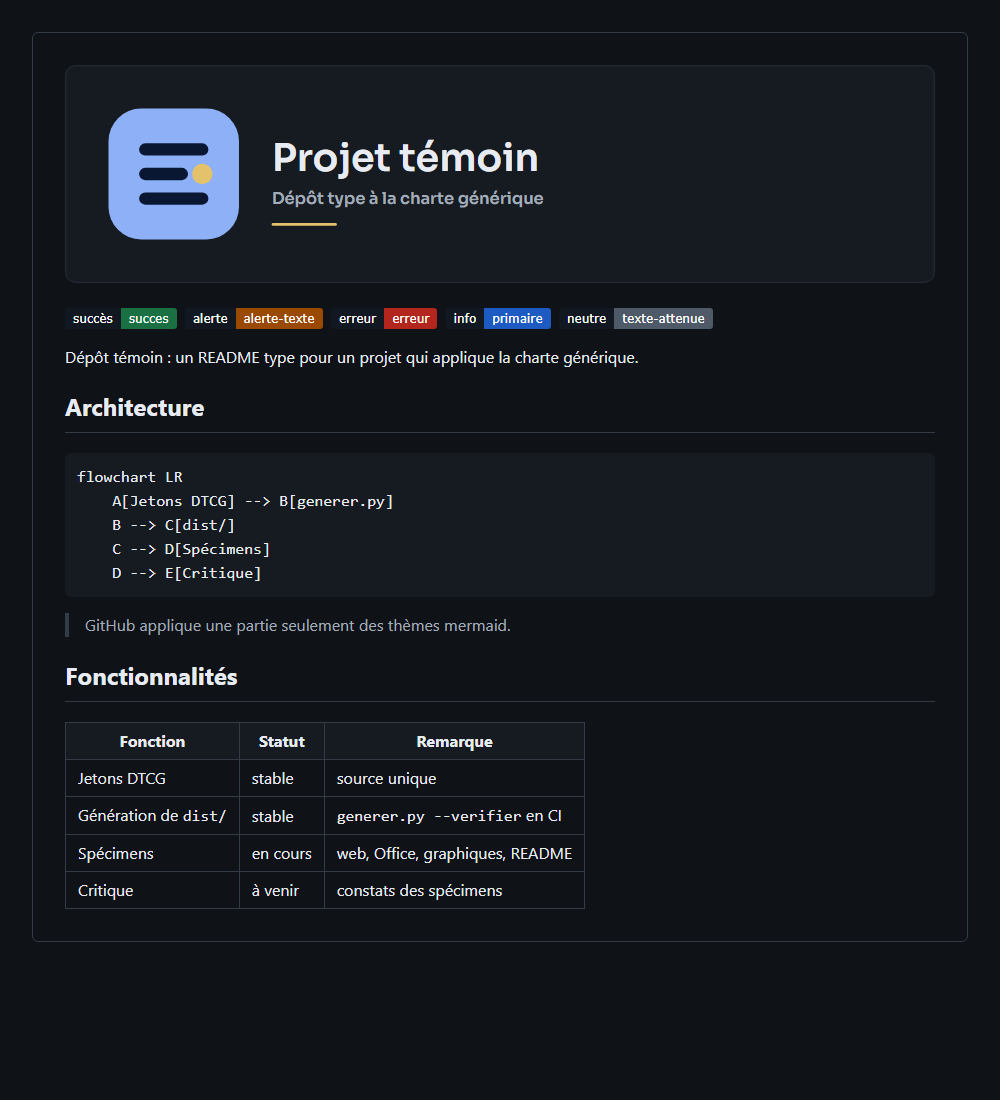
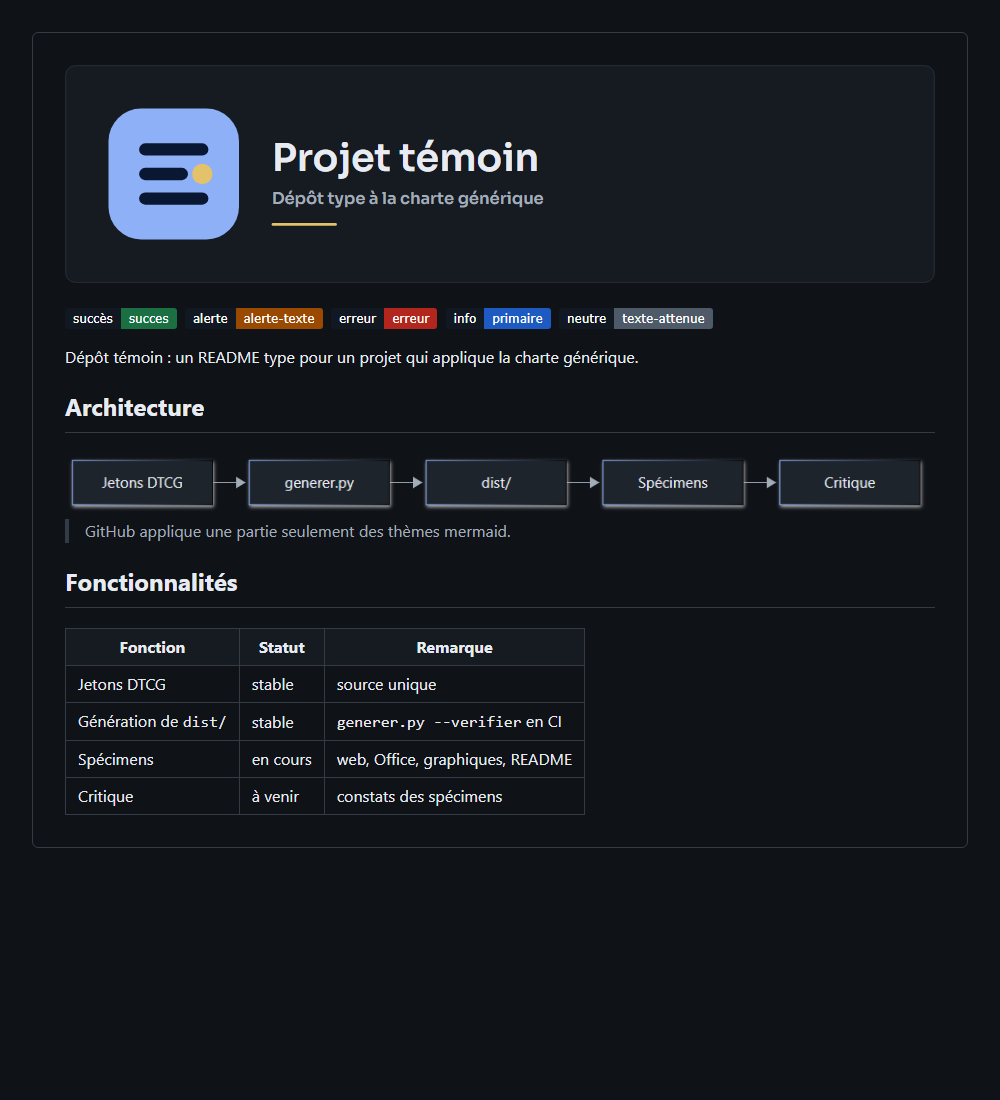
fix(1.5): rendu mermaid par Edge, URL de badge encodée, tests renforcés, licence OFL

Changed region(s): [[0.062, 0.4018, 0.93, 0.8345]]

diff --git a/specimens/readme/rendre.py b/specimens/readme/rendre.py
@@ -11,6 +11,7 @@ import subprocess
 import sys
 import tempfile
 from pathlib import Path
+from urllib.parse import quote
 
 RACINE = Path(__file__).resolve().parents[2]
 sys.path.insert(0, str(RACINE / "skills" / "charte" / "outils"))
@@ -21,7 +22,8 @@ ICI = Path(__file__).resolve().parent
 RENDUS = ICI / "rendus"
 EDGE = r"C:\Program Files (x86)\Microsoft\Edge\Application\msedge.exe"
 MERMAID = RACINE / "skills" / "charte" / "dist" / "mermaid-sombre.json"
-# shields.io : texte #fff, ou #333 sur fond clair (luminosité > 0,69)
+# Couleurs imposées par shields.io (badge-maker), hors charte : servent seulement à mesurer
+# le contraste du texte que shields.io choisira (#fff, ou #333 si luminosité > 0,69).
 BLANC, SOMBRE = "#FFFFFF", "#333333"
 
 
@@ -46,6 +48,8 @@ def badges() -> list[dict]:
             ratio = couleurs.contraste(t, col)
             if ratio >= 4.5:
                 break
+        else:
+            raise ValueError(f"badge {nom} : aucune variante lisible parmi {cles}")
         res.append({"nom": nom, "jeton": cle, "hex": col, "texte": t, "ratio": ratio,
                     "label": label, "ratio_label": couleurs.contraste(BLANC, label),
                     "essaye": cles[: cles.index(cle) + 1]})
@@ -53,7 +57,7 @@ def badges() -> list[dict]:
 
 
 def url_badge(b: dict) -> str:
-    return (f"https://img.shields.io/badge/{b['nom']}-{b['jeton'].replace('-', '--')}-{b['hex'][1:]}"
+    return (f"https://img.shields.io/badge/{quote(b['nom'])}-{b['jeton'].replace('-', '--')}-{b['hex'][1:]}"
             f"?labelColor={b['label'][1:]}")
 
 
@@ -87,7 +91,9 @@ DIAGRAMME = """flowchart LR
     D --> E[Critique]"""
 
 
-def readme(bs: list[dict]) -> str:
+def readme(bs: list[dict], mermaid_png: bool) -> str:
+    rendu = ("[`rendus/mermaid.png`](rendus/mermaid.png) montre l'intention." if mermaid_png
+             else "Rendu `mermaid.png` indisponible (voir `LISEZMOI.md`).")
     badges_md = " ".join(f"![{b['nom']}]({url_badge(b)})" for b in bs)
     return f"""<picture>
   <source media="(prefers-color-scheme: dark)" srcset="banniere-sombre.svg">
@@ -107,7 +113,7 @@ Dépôt témoin : un README type pour un projet qui applique la charte génériq
 ```
 
 > Note : GitHub applique une partie seulement des thèmes mermaid (`themeVariables`) et ignore
-> `%%{{init}}%%` dans certains contextes de rendu. `rendus/mermaid.png` montre l'intention.
+> `%%{{init}}%%` dans certains contextes de rendu. {rendu}
 
 ## Fonctionnalités
 
@@ -174,29 +180,33 @@ def capture(src: Path, dest: Path, w: int, h: int) -> None:
 def mmdc() -> bool:
     cfg = RENDUS / "_mermaid-config.json"
     mmd = RENDUS / "_diagramme.mmd"
+    pup = RENDUS / "_puppeteer.json"
     data = json.loads(MERMAID.read_text("utf-8"))
     cfg.write_text(json.dumps(data), encoding="utf-8")
+    # Edge du poste plutôt que le chrome-headless-shell que puppeteer ne télécharge pas
+    pup.write_text(json.dumps({"executablePath": EDGE, "headless": "shell"}), encoding="utf-8")
     mmd.write_text(DIAGRAMME + "\n", encoding="utf-8")
     try:
         subprocess.run(["npx.cmd", "-y", "@mermaid-js/mermaid-cli", "-i", str(mmd), "-o",
-                        str(RENDUS / "mermaid.png"), "-c", str(cfg),
-                        "-b", data["themeVariables"]["background"], "-w", "900"],
+                        str(RENDUS / "mermaid.png"), "-c", str(cfg), "-p", str(pup),
+                        "-b", data["themeVariables"]["background"], "--size", "900"],
                        check=True, timeout=120, capture_output=True)
         return True
     except (subprocess.SubprocessError, OSError) as e:
-        print("mmdc indisponible :", type(e).__name__)
+        print("mmdc indisponible :", type(e).__name__, getattr(e, "stderr", b"")[-600:])
         return False
     finally:
         cfg.unlink(missing_ok=True)
         mmd.unlink(missing_ok=True)
+        pup.unlink(missing_ok=True)
 
 
 def main() -> None:
     RENDUS.mkdir(exist_ok=True)
     bs = badges()
     ecrire_badges(bs)
-    (ICI / "README-temoin.md").write_text(readme(bs), encoding="utf-8")
     ok = mmdc()
+    (ICI / "README-temoin.md").write_text(readme(bs, ok), encoding="utf-8")
     for theme in ("sombre", "clair"):
         page = ICI / f"_rendu-{theme}.html"
         page.write_text(html_page(theme, bs, ok), encoding="utf-8")

diff --git a/tests/test_specimen_readme.py b/tests/test_specimen_readme.py
@@ -73,3 +73,30 @@ def test_readme_temoin_structure():
     assert "```mermaid" in texte
     assert "| Fonction |" in texte
     assert "## Captures" in texte
+
+
+def test_readme_temoin_init_mermaid_et_picture():
+    import json
+
+    texte = (DOSSIER / "README-temoin.md").read_text(encoding="utf-8")
+    assert 'media="(prefers-color-scheme: light)" srcset="banniere-clair.svg"' in texte
+    assert 'media="(prefers-color-scheme: dark)" srcset="banniere-sombre.svg"' in texte
+    init = re.search(r"%%\{init: (.*)\}%%", texte).group(1)
+    attendu = RACINE / "skills" / "charte" / "dist" / "mermaid-sombre.json"
+    assert json.loads(init) == json.loads(attendu.read_text(encoding="utf-8"))
+    for lien in re.findall(r"\]\((rendus/[^)]+)\)", texte):
+        assert (DOSSIER / lien).is_file(), lien
+
+
+def test_badges_lisibles_et_url_ascii():
+    import couleurs
+
+    texte = (DOSSIER / "badges.md").read_text(encoding="utf-8")
+    urls = re.findall(r"https://img\.shields\.io/badge/[^)]+", texte)
+    assert urls and all(u.isascii() for u in urls)
+    for fond, etiquette in re.findall(r"-([0-9A-F]{6})\?labelColor=([0-9A-F]{6})", texte):
+        # texte choisi par shields.io (badge-maker) : #333 si luminosité > 0,69, sinon blanc
+        r, g, b = (int(fond[i:i + 2], 16) for i in (0, 2, 4))
+        texte_badge = "#333333" if (r * 299 + g * 587 + b * 114) / 255000 > 0.69 else "#FFFFFF"
+        assert couleurs.contraste(texte_badge, "#" + fond) >= 4.5, fond
+        assert couleurs.contraste("#FFFFFF", "#" + etiquette) >= 4.5, etiquette

diff --git a/specimens/readme/LISEZMOI.md b/specimens/readme/LISEZMOI.md
@@ -7,21 +7,37 @@ uv run --no-project python -I specimens/readme/generer_bannieres.py
 uv run --no-project python -I specimens/readme/rendre.py
 ```
 
-Le premier écrit les SVG (valeurs lues par `jetons.charger()`, Sora en base64). Le second écrit `badges.md`, `README-temoin.md`, puis les PNG par Edge headless (Windows) ; il tente `npx -y @mermaid-js/mermaid-cli` pour `rendus/mermaid.png`.
+Le premier écrit les SVG (valeurs lues par `jetons.charger()`, Sora en base64). Le second écrit `badges.md`, `README-temoin.md`, puis les PNG par Edge headless (Windows) ; il lance `npx -y @mermaid-js/mermaid-cli` pour `rendus/mermaid.png`, avec Edge comme navigateur de puppeteer (option `-p`), car le `chrome-headless-shell` de puppeteer n'est pas téléchargé.
 
 ## Fichiers
 
 - `banniere-sombre.svg`, `banniere-clair.svg` (1280×320, environ 21 Ko chacune) ;
 - `apercu-social.svg` (source) et `apercu-social.png` (1280×640, sombre, marge de 120 px autour du bloc) ;
 - `badges.md`, `README-temoin.md` ;
-- `rendus/` : `banniere-*.png`, `readme-sombre.png`, `readme-clair.png`.
+- `rendus/` : `banniere-*.png`, `mermaid.png`, `readme-sombre.png`, `readme-clair.png`.
+
+Licence : les SVG embarquent Sora 600 (sous-ensemble latin, base64), sous SIL Open Font License 1.1 ; texte de la licence dans `skills/charte/polices/OFL-sora.txt` (voir `skills/charte/polices/LISEZMOI.md`). Un dépôt qui reprend ces bannières doit joindre ce fichier de licence.
 
 ## Constats pour la critique
 
-- Mermaid : `rendus/mermaid.png` absent. `npx -y @mermaid-js/mermaid-cli` a échoué (erreur de sortie non nulle après ~60 s, probablement le téléchargement de Chromium par puppeteer). Le rendu README montre donc le code du diagramme. GitHub ignore en partie `%%{init}%%` et les `themeVariables` : le thème sombre n'est pas garanti.
+- Mermaid : `rendus/mermaid.png` rendu avec `dist/mermaid-sombre.json` ; il garde son fond sombre dans le rendu clair du README (bandeau sombre sur page claire). GitHub ignore en partie `%%{init}%%` et les `themeVariables` : le thème sombre n'est pas garanti.
 - Badges : shields.io impose texte blanc ou `#333333`. Jetons clairs retenus. `alerte` (#E8892A) échoue avec le blanc et le gris sombre ; remplacé par `alerte-texte` (#9A4A00). `neutre` échoue ; remplacé par `texte-attenue` (#4F5A68). Les badges ont un fond sombre fixe d'étiquette, quel que soit le thème de la page.
 - Badges : le rendu local imite shields.io en HTML (Verdana) ; les vrais badges demandent le réseau.
 - La bannière sombre sur GitHub clair (ou inversement) est évitée par `<picture>`, mais l'`<img>` de repli est la sombre.
 - Le sous-titre est composé en Sora 600 (seule police embarquée), un peu lourd pour un texte secondaire ; Atkinson alourdirait la bannière de ~15 Ko.
 - Aperçu social : bloc centré à gauche avec beaucoup de vide à droite ; peu d'information.
 - Le rendu du README est un HTML de style GitHub simplifié, non le rendu réel de GitHub ; la section Captures n'y figure pas (elle référence ces captures).
+
+## Revue
+
+### Passe 1 (2026-11-05, SHA revu e0e6ae7)
+
+- Important, medium, reviewer : `mermaid.png` absent ; cause réelle, puppeteer sans `chrome-headless-shell` et `-w` refusé par `npx`. Corrigé : Edge par `-p`, option `--size`.
+- Nit, low, second avis 2 : lien mort vers `rendus/mermaid.png`. Corrigé : PNG produit, note conditionnelle, test des liens `rendus/`.
+- Nit, low, second avis 4 : tests de structure faibles. Corrigé : JSON `%%{init}%%` comparé à `dist/mermaid-sombre.json`, deux `<source>`, contraste des badges.
+- Nit, low, second avis 6 : `succès` non ASCII dans l'URL. Corrigé : `urllib.parse.quote`.
+- Nit, low, second avis 3 : licence OFL de Sora embarquée. Corrigé : mention dans « Fichiers ».
+- Nit, low, reviewer : badge sans variante lisible gardé en silence. Corrigé : `ValueError`.
+- Nit, low, second avis 1 : `#333333` dans `rendre.py`. Rejeté : couleur imposée par shields.io, sert au calcul de contraste, jamais rendue (commentaire précisé).
+- Nit, low, second avis 5 : aperçu social non centré. Reporté à la critique (1.6), déjà dans les constats.
+- Complexité : 0 constat.

diff --git a/specimens/readme/README-temoin.md b/specimens/readme/README-temoin.md
@@ -4,7 +4,7 @@
   <img alt="Projet témoin" src="banniere-sombre.svg">
 </picture>
 
-![succès](https://img.shields.io/badge/succès-succes-1B7043?labelColor=121821) ![alerte](https://img.shields.io/badge/alerte-alerte--texte-9A4A00?labelColor=121821) ![erreur](https://img.shields.io/badge/erreur-erreur-B3261E?labelColor=121821) ![info](https://img.shields.io/badge/info-primaire-1D5BC2?labelColor=121821) ![neutre](https://img.shields.io/badge/neutre-texte--attenue-4F5A68?labelColor=121821)
+![succès](https://img.shields.io/badge/succ%C3%A8s-succes-1B7043?labelColor=121821) ![alerte](https://img.shields.io/badge/alerte-alerte--texte-9A4A00?labelColor=121821) ![erreur](https://img.shields.io/badge/erreur-erreur-B3261E?labelColor=121821) ![info](https://img.shields.io/badge/info-primaire-1D5BC2?labelColor=121821) ![neutre](https://img.shields.io/badge/neutre-texte--attenue-4F5A68?labelColor=121821)
 
 Dépôt témoin : un README type pour un projet qui applique la charte générique.
 
@@ -20,7 +20,7 @@ flowchart LR
 ```
 
 > Note : GitHub applique une partie seulement des thèmes mermaid (`themeVariables`) et ignore
-> `%%{init}%%` dans certains contextes de rendu. `rendus/mermaid.png` montre l'intention.
+> `%%{init}%%` dans certains contextes de rendu. [`rendus/mermaid.png`](rendus/mermaid.png) montre l'intention.
 
 ## Fonctionnalités
 

diff --git a/specimens/readme/badges.md b/specimens/readme/badges.md
@@ -4,7 +4,7 @@ Badges shields.io aux couleurs des statuts (thème clair). shields.io choisit lu
 
 | Statut | Badge | Jeton | Couleur | Texte | Contraste |
 |---|---|---|---|---|---|
-| succès | ![succès](https://img.shields.io/badge/succès-succes-1B7043?labelColor=121821) | `succes` | `#1B7043` | `#FFFFFF` | 6.10 |
+| succès | ![succès](https://img.shields.io/badge/succ%C3%A8s-succes-1B7043?labelColor=121821) | `succes` | `#1B7043` | `#FFFFFF` | 6.10 |
 | alerte | ![alerte](https://img.shields.io/badge/alerte-alerte--texte-9A4A00?labelColor=121821) | `alerte-texte` | `#9A4A00` | `#FFFFFF` | 6.26 |
 | erreur | ![erreur](https://img.shields.io/badge/erreur-erreur-B3261E?labelColor=121821) | `erreur` | `#B3261E` | `#FFFFFF` | 6.54 |
 | info | ![info](https://img.shields.io/badge/info-primaire-1D5BC2?labelColor=121821) | `primaire` | `#1D5BC2` | `#FFFFFF` | 6.31 |
